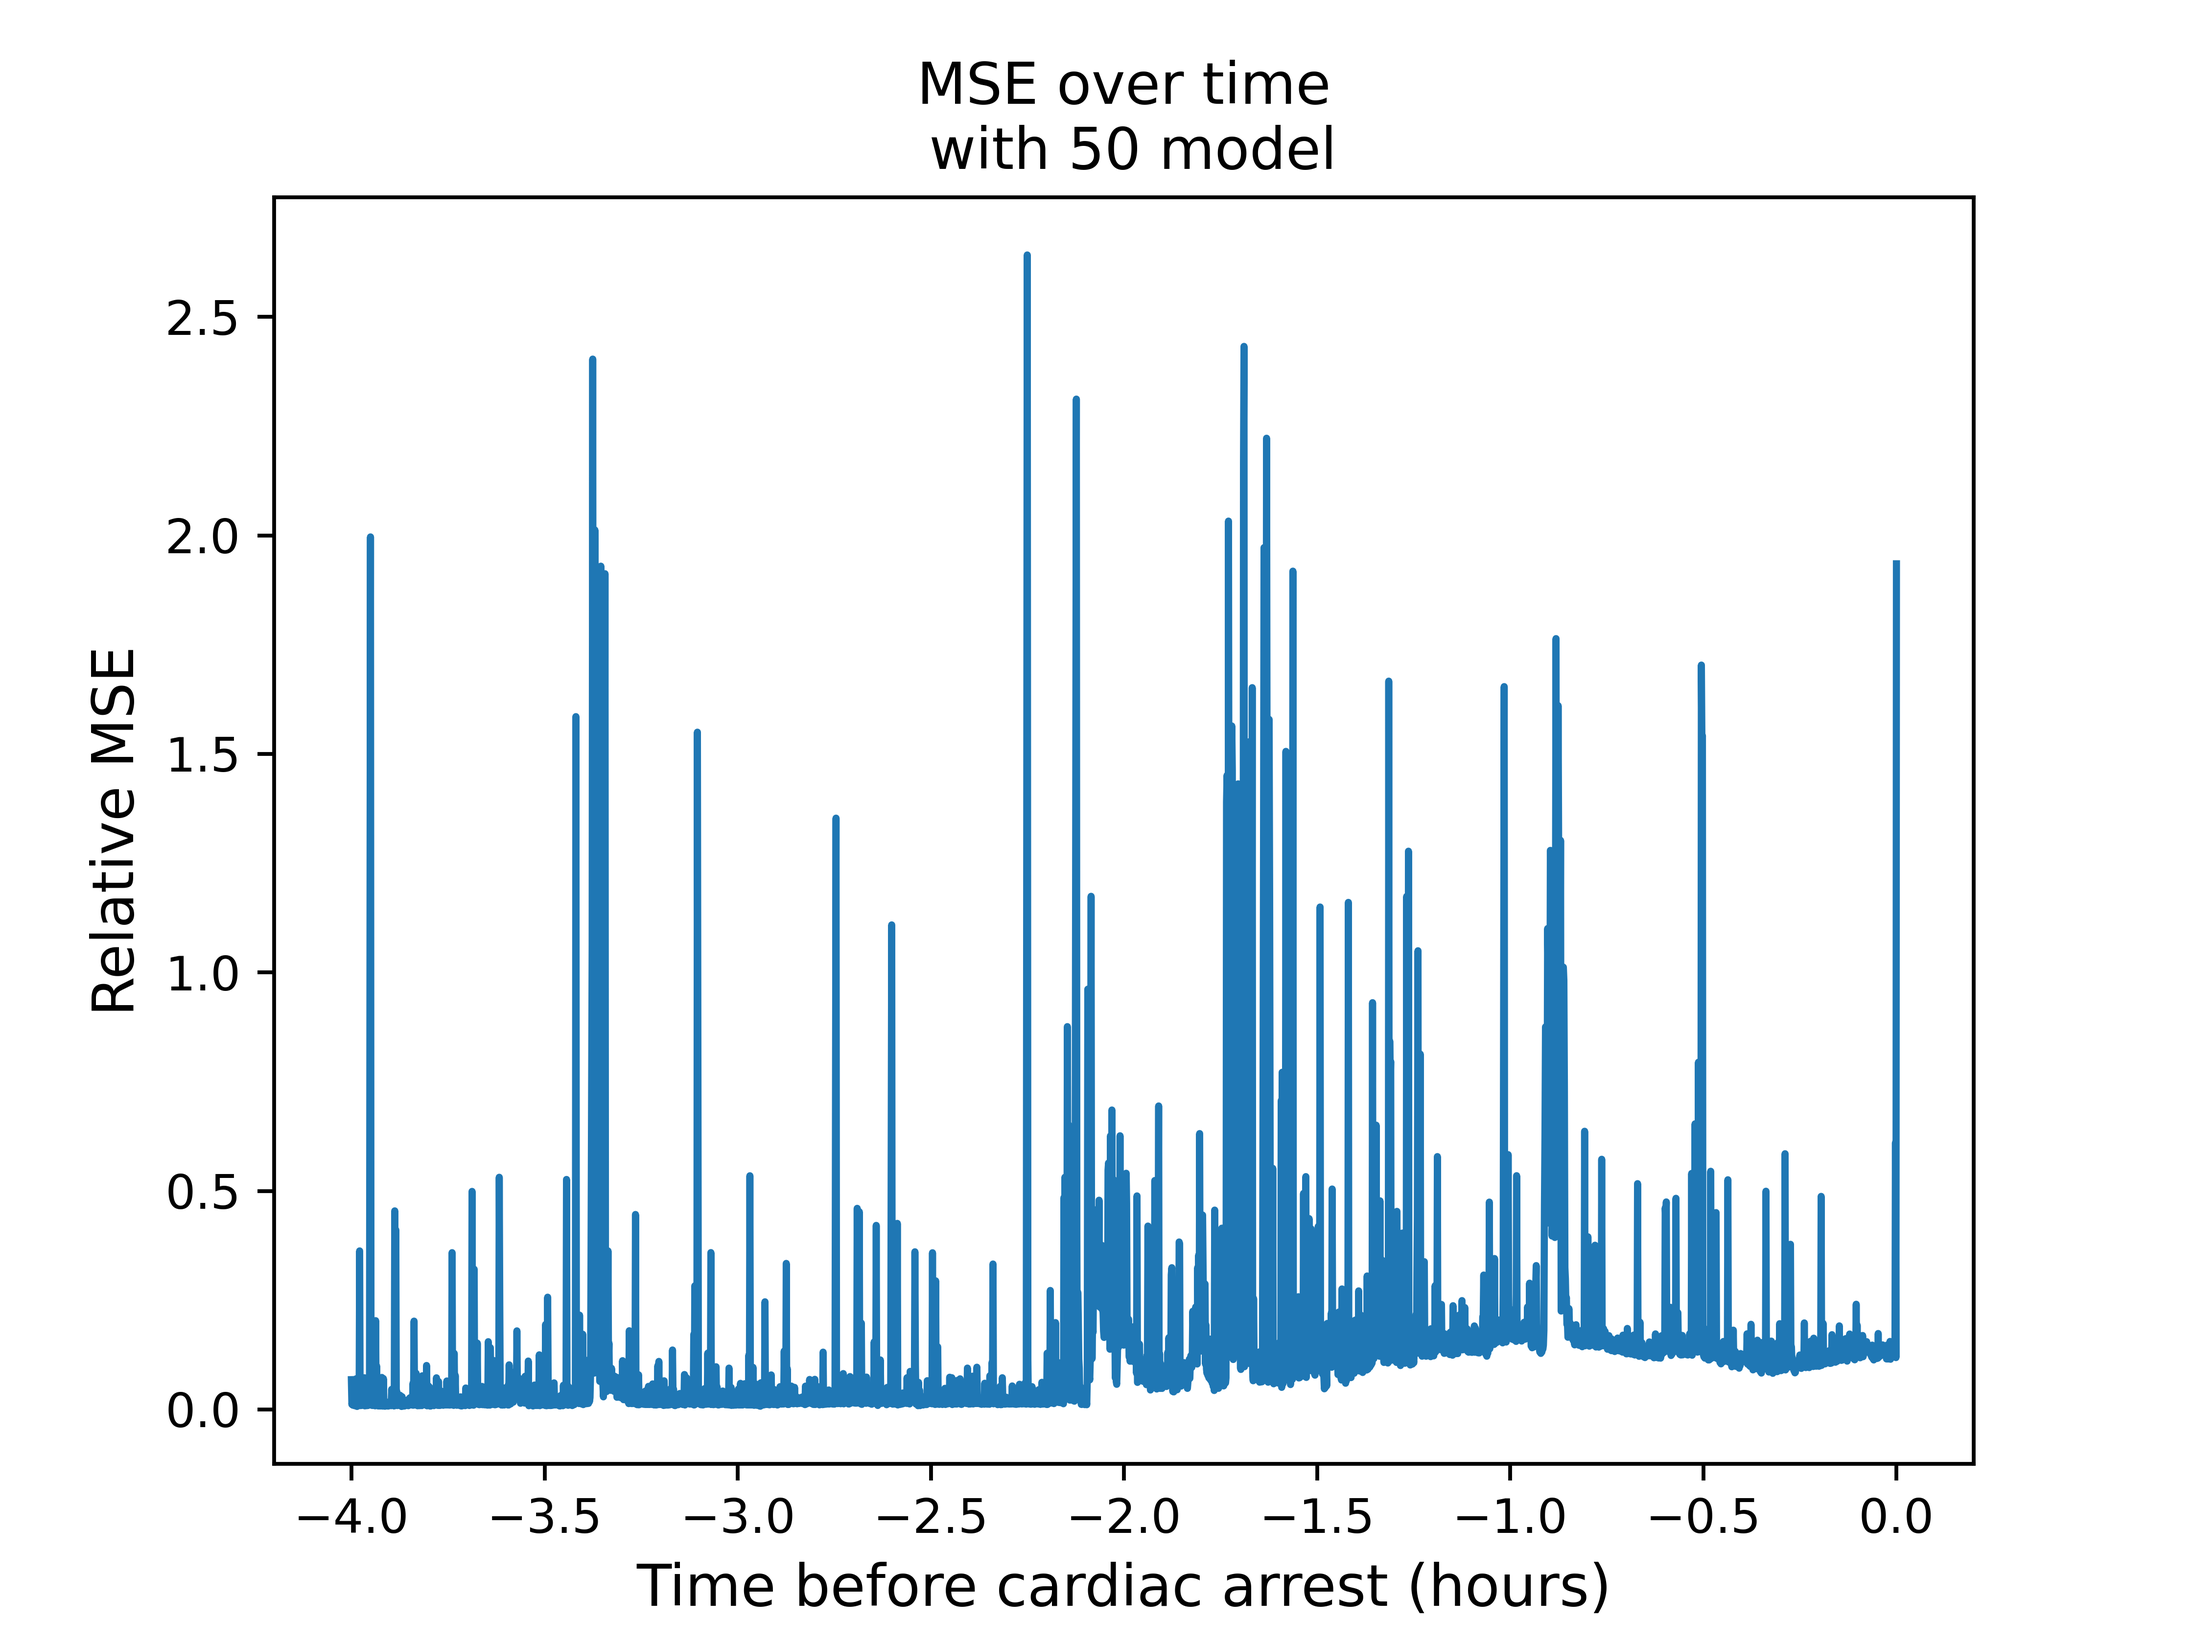
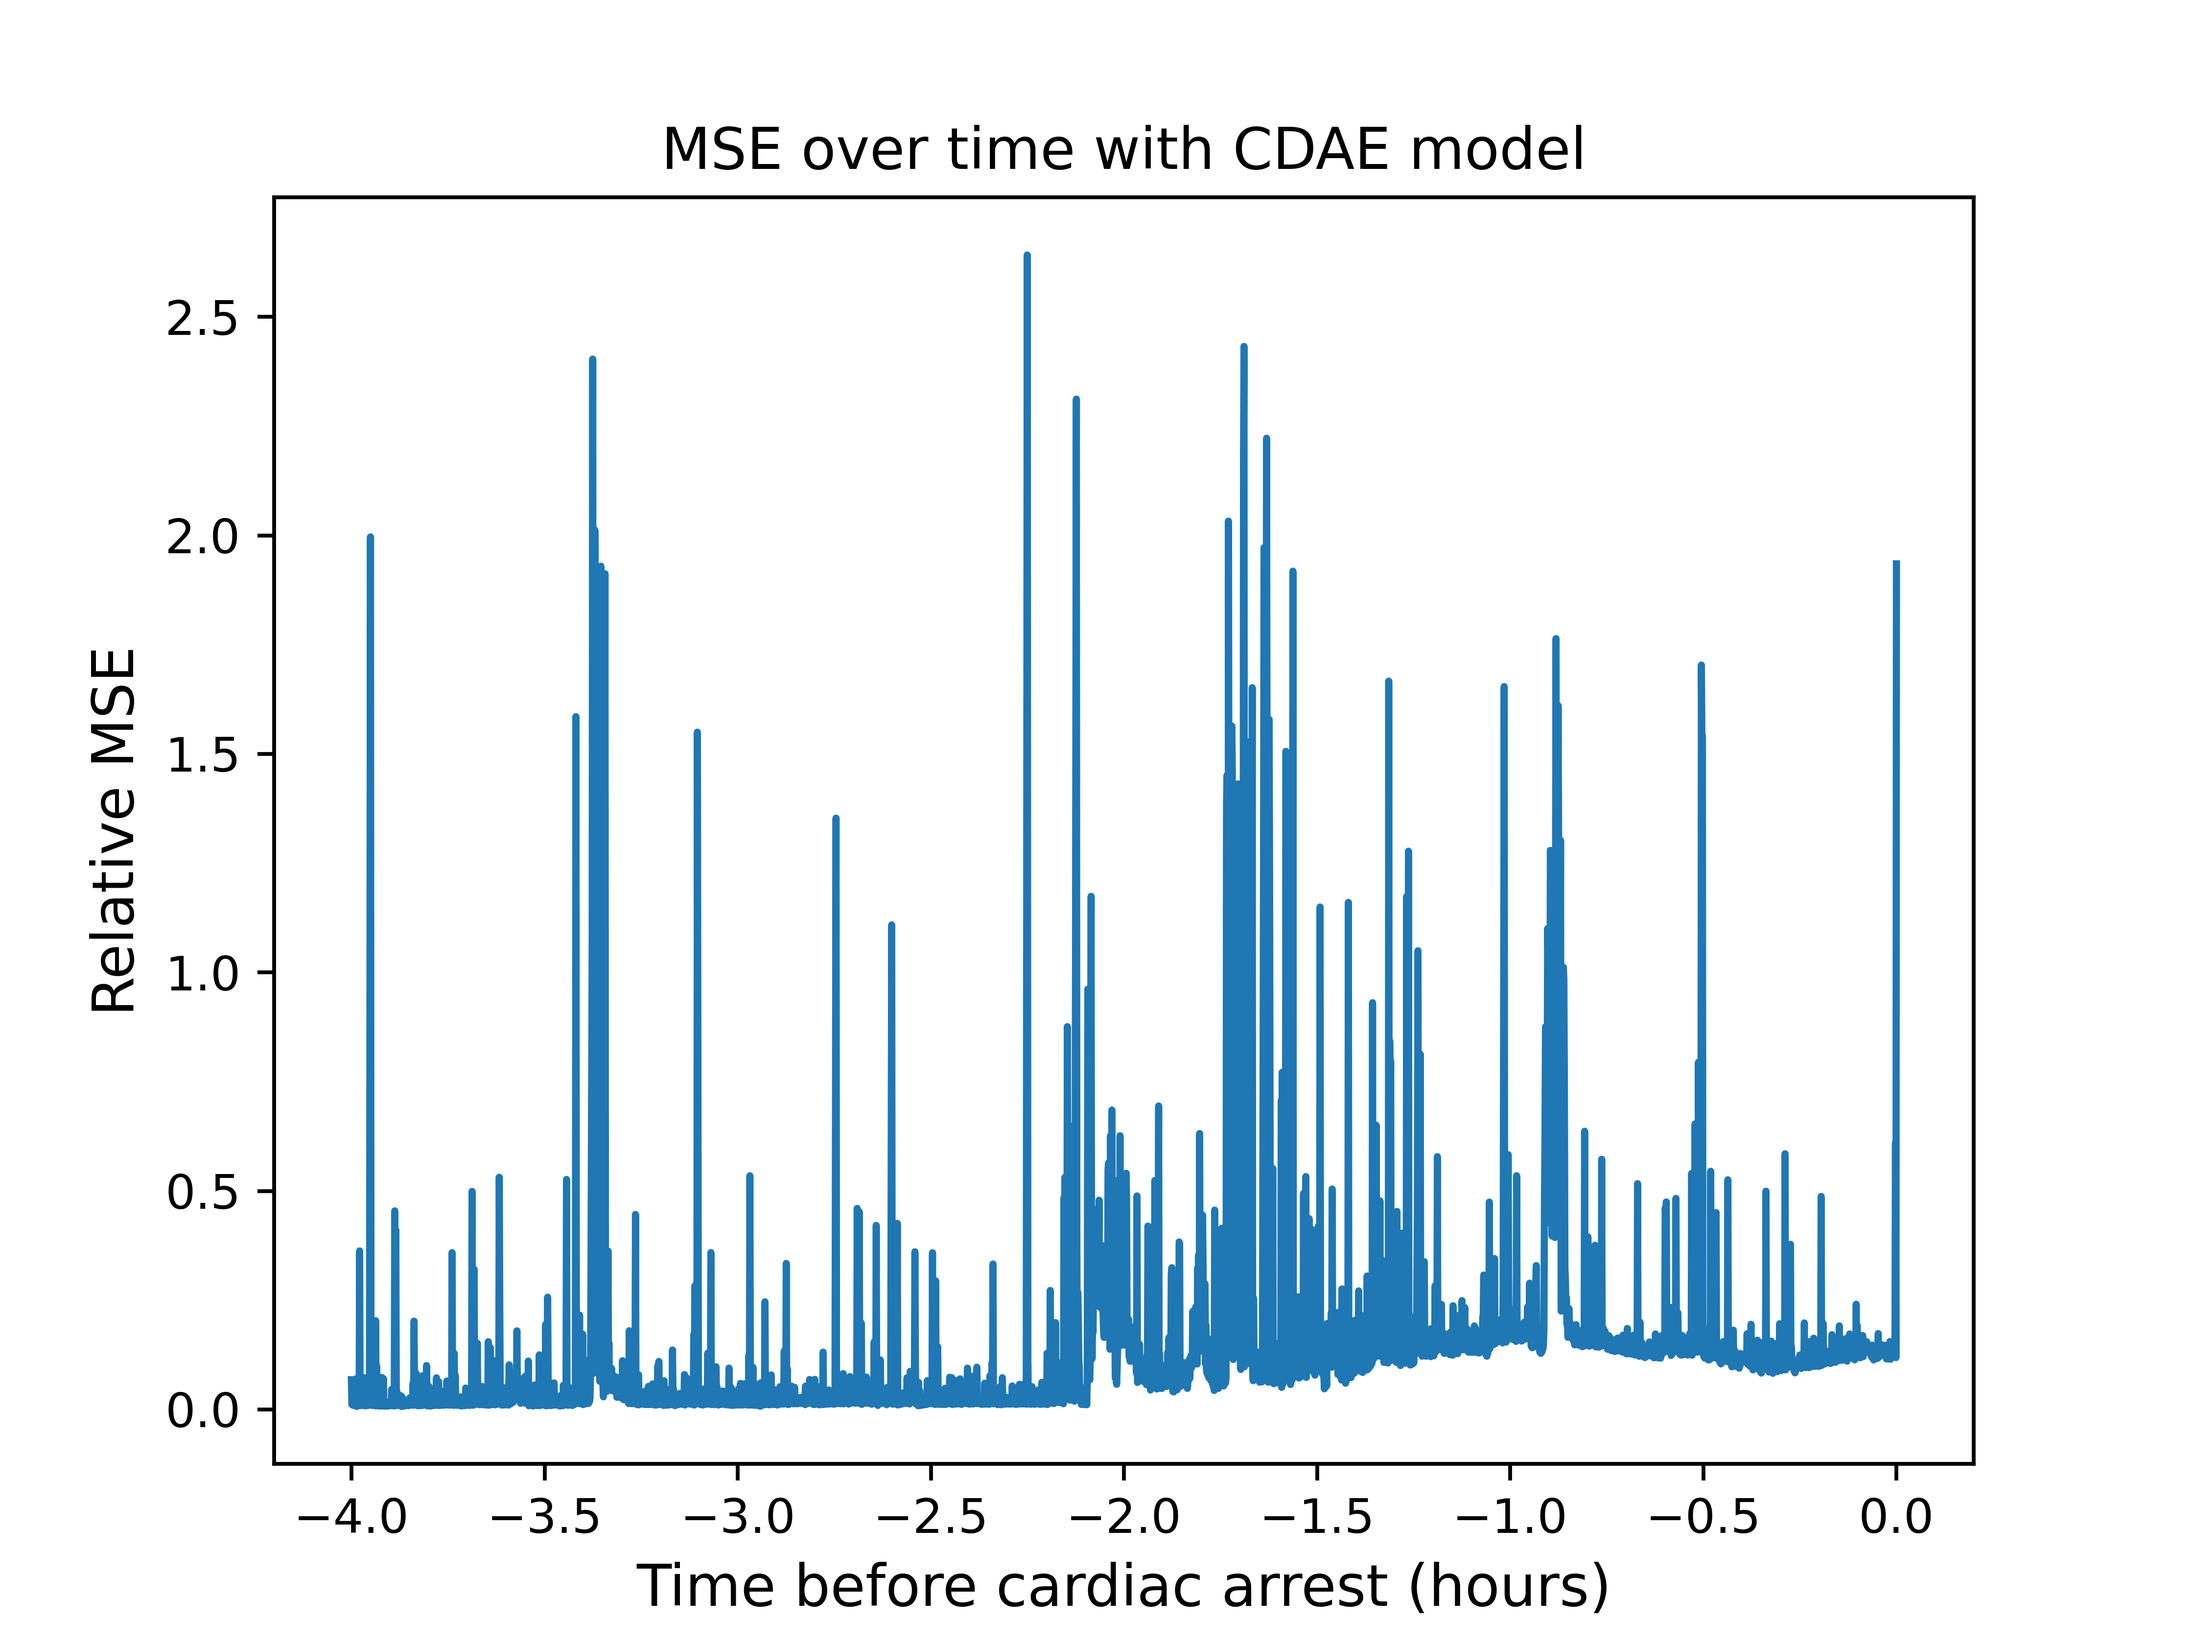
raw mse plot title changes

Changed region(s): [[0.3125, 0.0312, 0.7188, 0.125]]

diff --git a/src/preprocess/dim_reduce/reduction_error.py b/src/preprocess/dim_reduce/reduction_error.py
@@ -245,15 +245,15 @@ def windowed_mse_over_time(patient_num, model_name, dimension_num, window_size, 
 
     set_font_size()
     plt.plot(window_times, windowed_errors)
-    # plt.title("5-min Windowed (size={} samples) MSE over time\n with {} model".format(window_size, model_name.upper()))
-    plt.title("Mean Squared Error Over Time")
+    plt.title("Windowed MSE ({}-sample windows) over time\n with {} model".format(window_size, model_name.upper()))
+    # plt.title("Mean Squared Error Over Time")
     plt.xlabel("Time before cardiac arrest (hours)")
     plt.ylabel("Relative MSE")
-    plt.savefig(f"images/windowed_mse_Idx{patient_num}.png", dpi=1000)
+    plt.savefig(f"images/windowed_mse_Idx{patient_num}.png", dpi=700)
     plt.show()
     np.save(f"Working_Data/windowed_mse_{dimension_num}d_Idx{patient_num}.npy", windowed_errors)
 
-def raw_mse_over_time(patient_num, model_name, dimension_num, window_size, last_four_hours=False):
+def raw_mse_over_time(patient_num, model_name, dimension_num, last_four_hours=False):
     errors = mean_squared_error(dimension_num, model_name, patient_num, False)
     window_times = get_windowed_time(patient_num, num_hbs=10, window_size=1)
 
@@ -270,7 +270,7 @@ def raw_mse_over_time(patient_num, model_name, dimension_num, window_size, last_
 
     set_font_size()
     plt.plot(window_times, windowed_errors)
-    plt.title("MSE over time\n with {} model".format(window_size, model_name.upper()))
+    plt.title("MSE over time with {} model".format(model_name.upper()))
     plt.xlabel("Time before cardiac arrest (hours)")
     plt.ylabel("Relative MSE")
     plt.savefig(f"images/raw_mse_Idx{patient_num}.png", dpi=700)
@@ -297,10 +297,10 @@ if __name__ == "__main__":
     #     windowed_mse_over_time(patient, "ae", 10)
 
     # windowed_mse_over_time(16, "cdae", 100, 50)
-    # windowed_mse_over_time(16, "cdae", 100, 25, last_four_hours=True)
-    # raw_mse_over_time(16, "cdae", 100, 50, last_four_hours=True)
+    windowed_mse_over_time(16, "cdae", 100, 100, last_four_hours=True)
+    # raw_mse_over_time(16, "cdae", 100, last_four_hours=True)
 
-    boxplot_error("cdae", 100, False)
+    # boxplot_error("cdae", 100, False)
 
 
     # compare_dimensions("pca", "1")
